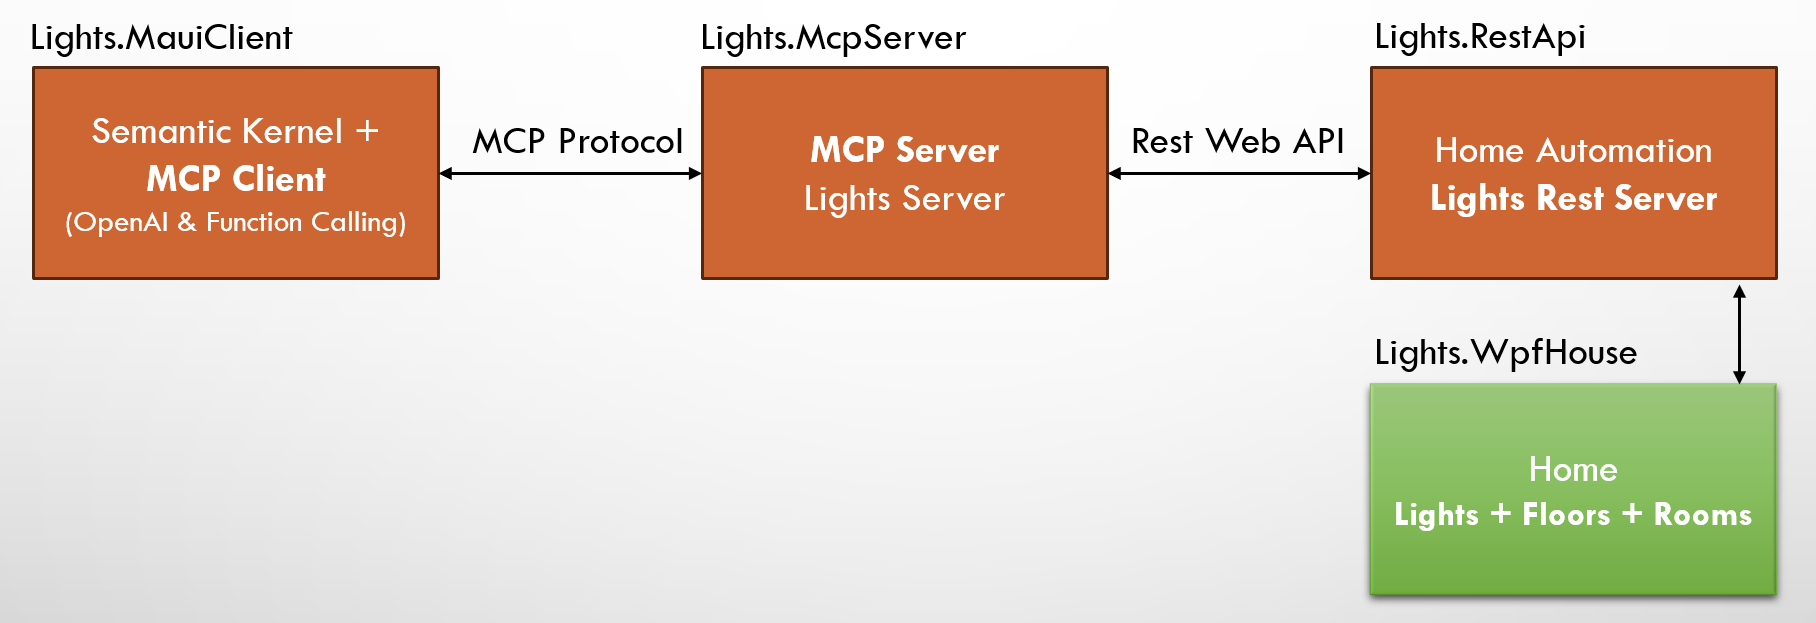
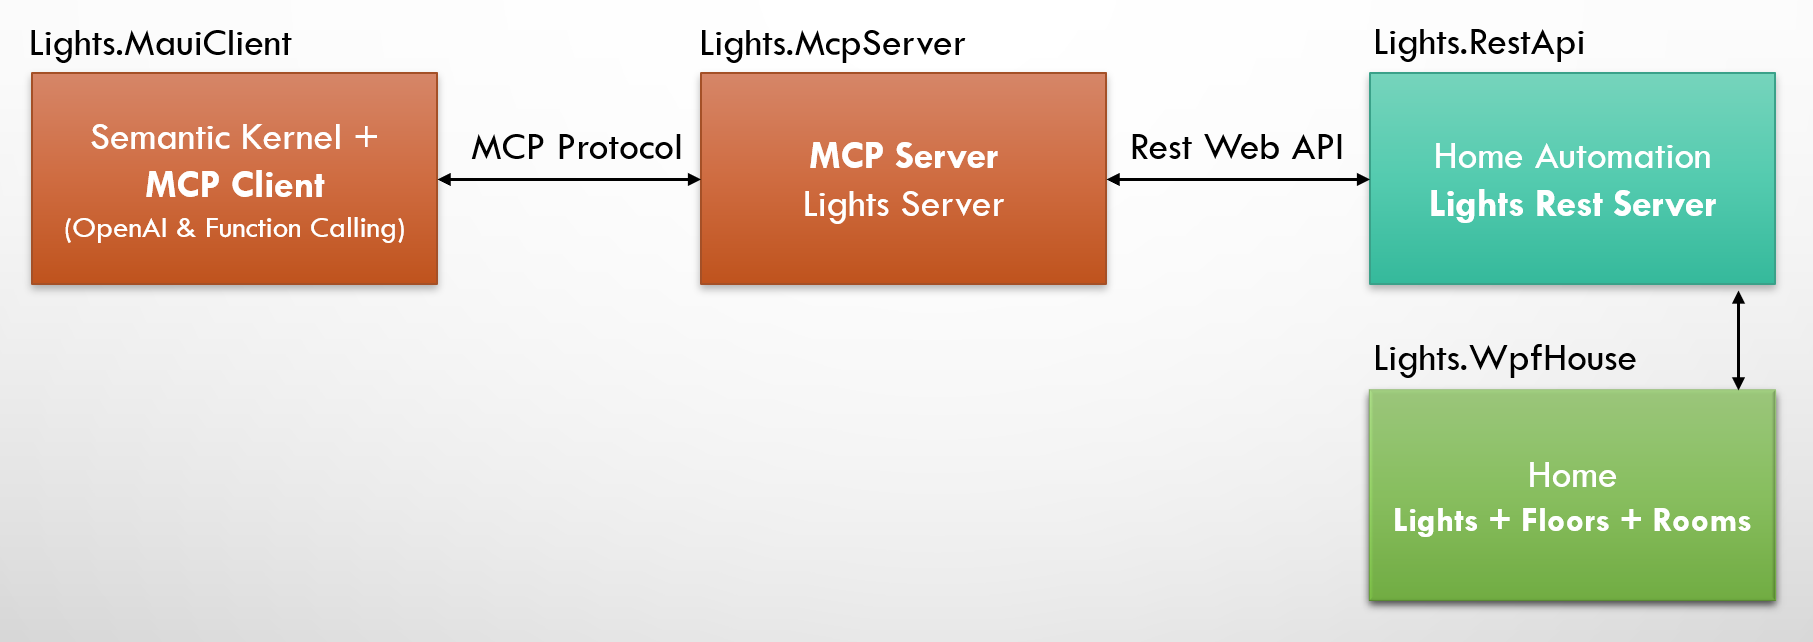
Improve README and update architecture diagram
Updated the README to clarify project scope, correct typos, and add new goals, including demonstrating the use of the C# SDK for the Model Context Protocol (MCP) and implementing basic authentication (noted as in a branch). Enhanced the architecture explanation to highlight the roles of the client and server in the MCP protocol. Modified the `ArchitectureSimple.png` diagram (details not specified).

diff --git a/README.md b/README.md
@@ -1,7 +1,7 @@
 # AIKernelMCPClient
 
 ## Overview
-Ths project shows how to use Semantic Kernel inside a cross platform MAUI application to control a REST API service using OpenAI (ChatGPT) as the AI model.
+Ths project shows how to use Semantic Kernel inside a cross platform MAUI application (code works on nay type of app)  to control a REST API service using OpenAI (ChatGPT) as the AI model.
 Controllig the RestAPI through a MCP protocol enabled server. and Semantic Kernel MCP plugin on the client side.
 
 ## Architecture
@@ -9,9 +9,11 @@ Controllig the RestAPI through a MCP protocol enabled server. and Semantic Kerne
 ![image](ReadMeImages/ArchitectureSimple.png)
 
 ## Goals
+- **Demonstrate how to use the official C# SDK for the Model Context Protocol**, enabling .NET applications, services, and libraries to implement and interact with MCP clients and servers.
 - Create a MCP Server on top of an existing REST API service.
 - Create a MAUI client application that uses Semantic Kernel to interact with an OpenAI model (ChatGPT 5 Mini or Nano) to control the service through prompts.
-- Create A MCP client in the for of a Semantic Kernel plugin that connects to the MCP server.
+- Create A MCP client in the form of a Semantic Kernel plugin that connects to the MCP server.
+- Show how to create basic authentication between the MCP client and server (in branch).
 
 We are implementing the Model Control Protocol (MCP) on both the server and client side.
 As the architecture shows, the client application (AIKernelClient) is designed to interact with the AI model, allowing it to send intents and receive actions that can be executed on the service.
